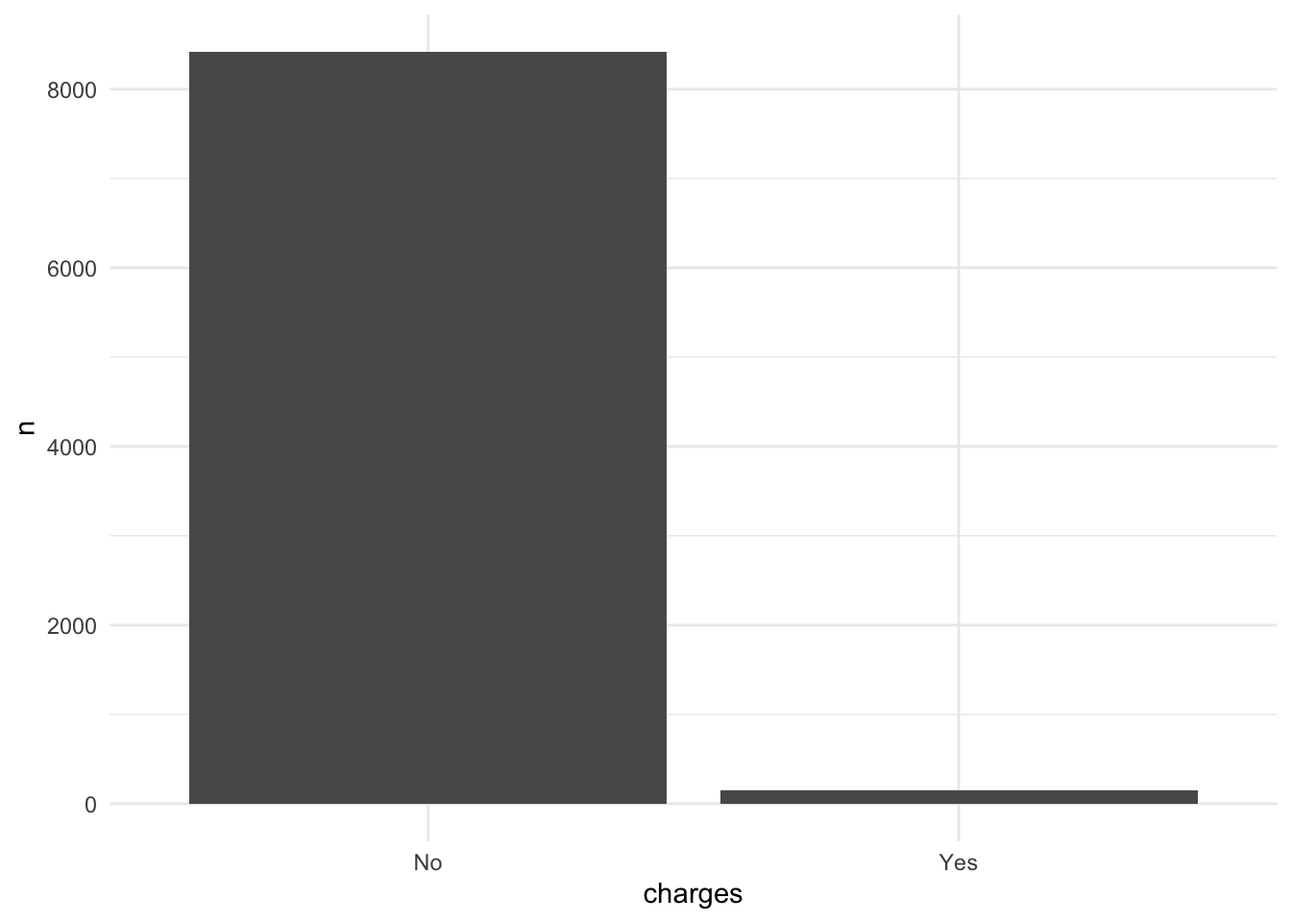
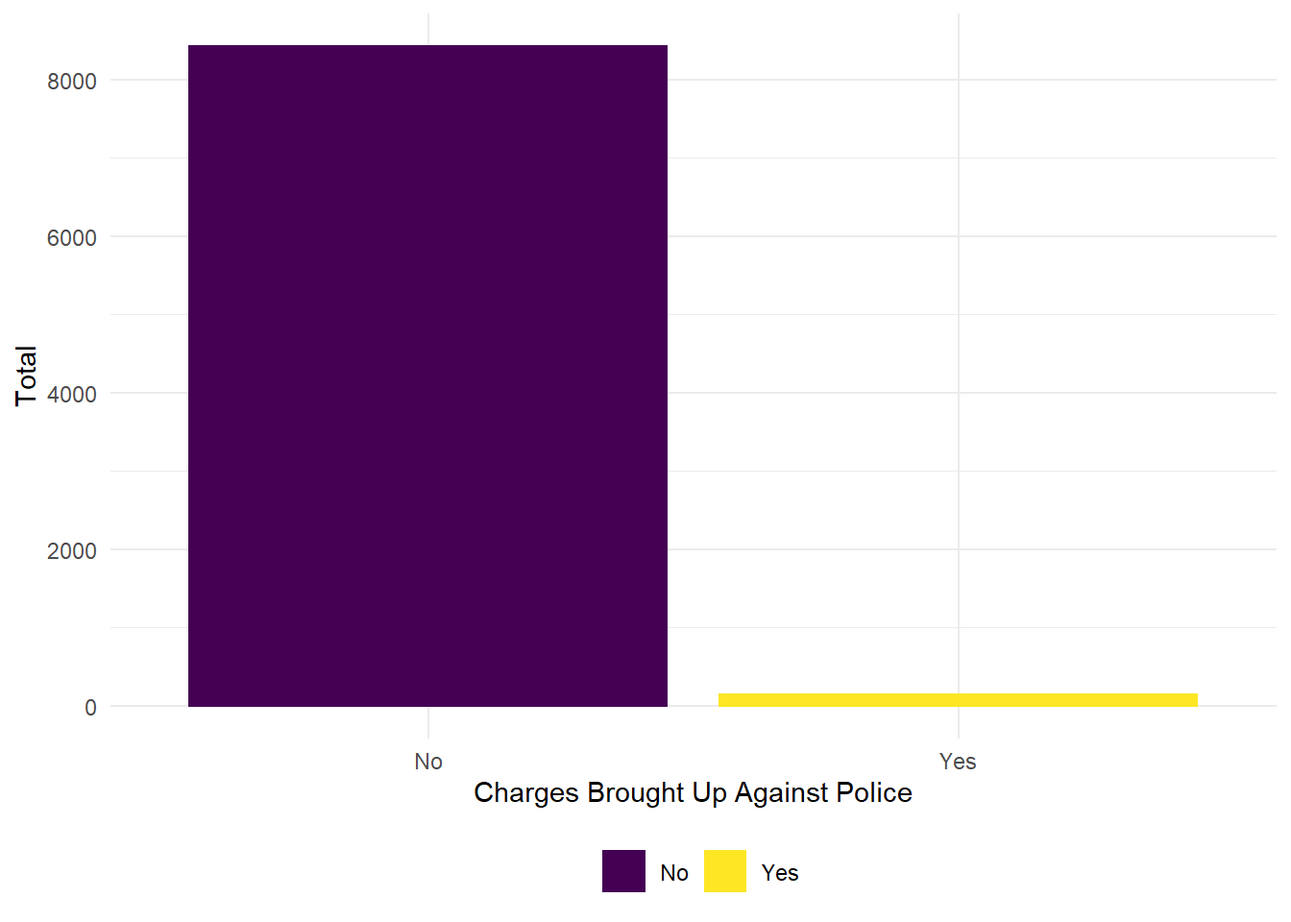
Edited MPV analysis and updated commentary

diff --git a/analysis_mpv.html b/analysis_mpv.html
@@ -437,8 +437,73 @@ div.tocify {
 </div>
 
 
-<div id="total-number-of-people-killed-by-police-by-department" class="section level3">
-<h3>Total Number of People Killed by Police by Department</h3>
+<div id="police-killings-over-time-2013-2019" class="section level3">
+<h3>Police Killings Over Time 2013-2019</h3>
+<pre class="r"><code>year_plot = 
+  mpv_df %&gt;% 
+  count(year) %&gt;% 
+  rename(total_killed = n) %&gt;% 
+  filter(year &lt; 2020) %&gt;% 
+  ggplot(aes(x = year, y = total_killed)) + geom_point() +
+  geom_smooth(method = lm, se = FALSE) +
+  scale_y_continuous(limit = c(0, 1400))
+
+year_plot</code></pre>
+<p><img src="analysis_mpv_files/figure-html/unnamed-chunk-1-1.png" width="90%" /></p>
+<p>The plot below shows the total number police killings per year from 2013 through 2019, as we can see, the total number of killings has remained relatively unchanged the past 6 years despite increased public awareness of police brutality.</p>
+<pre class="r"><code>anim_scatter =
+  mpv_df %&gt;% 
+  mutate(
+    race = str_replace_all(race, &quot;unknown race&quot;, &quot;Unknown race&quot;)
+    ) %&gt;% 
+  filter(year &lt; 2020) %&gt;% 
+  group_by(year, race) %&gt;% 
+  count() %&gt;% 
+  ggplot(aes(x = year, y = n, color = race)) +
+  geom_line() +
+  geom_point() +
+  labs(title = &quot;Number of Police Killings Over Time by Race&quot;,
+       x = &quot;Year&quot;,
+       y = &quot;Number of Police Killings&quot;) +
+  transition_reveal(year)
+
+animate(anim_scatter, renderer = gifski_renderer())</code></pre>
+<p><img src="analysis_mpv_files/figure-html/unnamed-chunk-2-1.gif" width="90%" /></p>
+<p>This plot shows the number of people that were killed from 2013 through 2019 by race. From this graph, White, Black, and Hispanic people are the victims of most police violence incidents and this holds relatively steady throughout this time period. However, these numbers must be compared with the overall US population by race in order to understand the risk of police use of force as a cause of death.</p>
+</div>
+<div id="police-killings-by-state" class="section level3">
+<h3>Police Killings by State</h3>
+<pre class="r"><code>mpv_df %&gt;% 
+  count(state) %&gt;% 
+  rename(total_killed_st = n) %&gt;% 
+  arrange(desc(total_killed_st)) %&gt;% 
+  mutate(
+    state = factor(state),
+    state = fct_reorder(state, total_killed_st)
+  ) %&gt;% 
+ plot_ly(
+      y = ~total_killed_st, x = ~state, color = ~state,
+      type = &quot;bar&quot;, colors = &quot;viridis&quot;)</code></pre>
+<div id="htmlwidget-9416d2c494a811bc506b" style="width:90%;height:480px;" class="plotly html-widget"></div>
+<script type="application/json" data-for="htmlwidget-9416d2c494a811bc506b">{"x":{"visdat":{"4b40763762c9":["function () ","plotlyVisDat"]},"cur_data":"4b40763762c9","attrs":{"4b40763762c9":{"y":{},"x":{},"color":{},"colors":"viridis","alpha_stroke":1,"sizes":[10,100],"spans":[1,20],"type":"bar"}},"layout":{"margin":{"b":40,"l":60,"t":25,"r":10},"xaxis":{"domain":[0,1],"automargin":true,"title":"state","type":"category","categoryorder":"array","categoryarray":["RI","VT","ND","NH","DE","WY","DC","SD","ME","NE","CT","HI","AK","MT","IA","ID","MA","WV","KS","MN","UT","NJ","MS","AR","OR","WI","MI","SC","VA","KY","IN","MD","NV","AL","NM","LA","NY","PA","IL","TN","MO","OH","NC","OK","WA","CO","GA","AZ","FL","TX","CA"]},"yaxis":{"domain":[0,1],"automargin":true,"title":"total_killed_st"},"hovermode":"closest","showlegend":true},"source":"A","config":{"showSendToCloud":false},"data":[{"y":[6],"x":["RI"],"type":"bar","name":"RI","marker":{"color":"rgba(68,1,84,1)","line":{"color":"rgba(68,1,84,1)"}},"textfont":{"color":"rgba(68,1,84,1)"},"error_y":{"color":"rgba(68,1,84,1)"},"error_x":{"color":"rgba(68,1,84,1)"},"xaxis":"x","yaxis":"y","frame":null},{"y":[12],"x":["VT"],"type":"bar","name":"VT","marker":{"color":"rgba(70,8,92,1)","line":{"color":"rgba(70,8,92,1)"}},"textfont":{"color":"rgba(70,8,92,1)"},"error_y":{"color":"rgba(70,8,92,1)"},"error_x":{"color":"rgba(70,8,92,1)"},"xaxis":"x","yaxis":"y","frame":null},{"y":[14],"x":["ND"],"type":"bar","name":"ND","marker":{"color":"rgba(71,16,99,1)","line":{"color":"rgba(71,16,99,1)"}},"textfont":{"color":"rgba(71,16,99,1)"},"error_y":{"color":"rgba(71,16,99,1)"},"error_x":{"color":"rgba(71,16,99,1)"},"xaxis":"x","yaxis":"y","frame":null},{"y":[18],"x":["NH"],"type":"bar","name":"NH","marker":{"color":"rgba(72,23,105,1)","line":{"color":"rgba(72,23,105,1)"}},"textfont":{"color":"rgba(72,23,105,1)"},"error_y":{"color":"rgba(72,23,105,1)"},"error_x":{"color":"rgba(72,23,105,1)"},"xaxis":"x","yaxis":"y","frame":null},{"y":[21],"x":["DE"],"type":"bar","name":"DE","marker":{"color":"rgba(72,30,111,1)","line":{"color":"rgba(72,30,111,1)"}},"textfont":{"color":"rgba(72,30,111,1)"},"error_y":{"color":"rgba(72,30,111,1)"},"error_x":{"color":"rgba(72,30,111,1)"},"xaxis":"x","yaxis":"y","frame":null},{"y":[22],"x":["WY"],"type":"bar","name":"WY","marker":{"color":"rgba(72,37,117,1)","line":{"color":"rgba(72,37,117,1)"}},"textfont":{"color":"rgba(72,37,117,1)"},"error_y":{"color":"rgba(72,37,117,1)"},"error_x":{"color":"rgba(72,37,117,1)"},"xaxis":"x","yaxis":"y","frame":null},{"y":[27],"x":["DC"],"type":"bar","name":"DC","marker":{"color":"rgba(71,43,122,1)","line":{"color":"rgba(71,43,122,1)"}},"textfont":{"color":"rgba(71,43,122,1)"},"error_y":{"color":"rgba(71,43,122,1)"},"error_x":{"color":"rgba(71,43,122,1)"},"xaxis":"x","yaxis":"y","frame":null},{"y":[27],"x":["SD"],"type":"bar","name":"SD","marker":{"color":"rgba(70,49,126,1)","line":{"color":"rgba(70,49,126,1)"}},"textfont":{"color":"rgba(70,49,126,1)"},"error_y":{"color":"rgba(70,49,126,1)"},"error_x":{"color":"rgba(70,49,126,1)"},"xaxis":"x","yaxis":"y","frame":null},{"y":[34],"x":["ME"],"type":"bar","name":"ME","marker":{"color":"rgba(69,56,130,1)","line":{"color":"rgba(69,56,130,1)"}},"textfont":{"color":"rgba(69,56,130,1)"},"error_y":{"color":"rgba(69,56,130,1)"},"error_x":{"color":"rgba(69,56,130,1)"},"xaxis":"x","yaxis":"y","frame":null},{"y":[39],"x":["NE"],"type":"bar","name":"NE","marker":{"color":"rgba(67,62,133,1)","line":{"color":"rgba(67,62,133,1)"}},"textfont":{"color":"rgba(67,62,133,1)"},"error_y":{"color":"rgba(67,62,133,1)"},"error_x":{"color":"rgba(67,62,133,1)"},"xaxis":"x","yaxis":"y","frame":null},{"y":[40],"x":["CT"],"type":"bar","name":"CT","marker":{"color":"rgba(65,68,135,1)","line":{"color":"rgba(65,68,135,1)"}},"textfont":{"color":"rgba(65,68,135,1)"},"error_y":{"color":"rgba(65,68,135,1)"},"error_x":{"color":"rgba(65,68,135,1)"},"xaxis":"x","yaxis":"y","frame":null},{"y":[40],"x":["HI"],"type":"bar","name":"HI","marker":{"color":"rgba(62,73,137,1)","line":{"color":"rgba(62,73,137,1)"}},"textfont":{"color":"rgba(62,73,137,1)"},"error_y":{"color":"rgba(62,73,137,1)"},"error_x":{"color":"rgba(62,73,137,1)"},"xaxis":"x","yaxis":"y","frame":null},{"y":[48],"x":["AK"],"type":"bar","name":"AK","marker":{"color":"rgba(60,79,138,1)","line":{"color":"rgba(60,79,138,1)"}},"textfont":{"color":"rgba(60,79,138,1)"},"error_y":{"color":"rgba(60,79,138,1)"},"error_x":{"color":"rgba(60,79,138,1)"},"xaxis":"x","yaxis":"y","frame":null},{"y":[48],"x":["MT"],"type":"bar","name":"MT","marker":{"color":"rgba(58,84,140,1)","line":{"color":"rgba(58,84,140,1)"}},"textfont":{"color":"rgba(58,84,140,1)"},"error_y":{"color":"rgba(58,84,140,1)"},"error_x":{"color":"rgba(58,84,140,1)"},"xaxis":"x","yaxis":"y","frame":null},{"y":[52],"x":["IA"],"type":"bar","name":"IA","marker":{"color":"rgba(55,90,140,1)","line":{"color":"rgba(55,90,140,1)"}},"textfont":{"color":"rgba(55,90,140,1)"},"error_y":{"color":"rgba(55,90,140,1)"},"error_x":{"color":"rgba(55,90,140,1)"},"xaxis":"x","yaxis":"y","frame":null},{"y":[53],"x":["ID"],"type":"bar","name":"ID","marker":{"color":"rgba(53,96,141,1)","line":{"color":"rgba(53,96,141,1)"}},"textfont":{"color":"rgba(53,96,141,1)"},"error_y":{"color":"rgba(53,96,141,1)"},"error_x":{"color":"rgba(53,96,141,1)"},"xaxis":"x","yaxis":"y","frame":null},{"y":[58],"x":["MA"],"type":"bar","name":"MA","marker":{"color":"rgba(50,101,142,1)","line":{"color":"rgba(50,101,142,1)"}},"textfont":{"color":"rgba(50,101,142,1)"},"error_y":{"color":"rgba(50,101,142,1)"},"error_x":{"color":"rgba(50,101,142,1)"},"xaxis":"x","yaxis":"y","frame":null},{"y":[78],"x":["WV"],"type":"bar","name":"WV","marker":{"color":"rgba(48,106,142,1)","line":{"color":"rgba(48,106,142,1)"}},"textfont":{"color":"rgba(48,106,142,1)"},"error_y":{"color":"rgba(48,106,142,1)"},"error_x":{"color":"rgba(48,106,142,1)"},"xaxis":"x","yaxis":"y","frame":null},{"y":[81],"x":["KS"],"type":"bar","name":"KS","marker":{"color":"rgba(46,111,142,1)","line":{"color":"rgba(46,111,142,1)"}},"textfont":{"color":"rgba(46,111,142,1)"},"error_y":{"color":"rgba(46,111,142,1)"},"error_x":{"color":"rgba(46,111,142,1)"},"xaxis":"x","yaxis":"y","frame":null},{"y":[93],"x":["MN"],"type":"bar","name":"MN","marker":{"color":"rgba(44,115,142,1)","line":{"color":"rgba(44,115,142,1)"}},"textfont":{"color":"rgba(44,115,142,1)"},"error_y":{"color":"rgba(44,115,142,1)"},"error_x":{"color":"rgba(44,115,142,1)"},"xaxis":"x","yaxis":"y","frame":null},{"y":[97],"x":["UT"],"type":"bar","name":"UT","marker":{"color":"rgba(42,120,142,1)","line":{"color":"rgba(42,120,142,1)"}},"textfont":{"color":"rgba(42,120,142,1)"},"error_y":{"color":"rgba(42,120,142,1)"},"error_x":{"color":"rgba(42,120,142,1)"},"xaxis":"x","yaxis":"y","frame":null},{"y":[113],"x":["NJ"],"type":"bar","name":"NJ","marker":{"color":"rgba(40,125,142,1)","line":{"color":"rgba(40,125,142,1)"}},"textfont":{"color":"rgba(40,125,142,1)"},"error_y":{"color":"rgba(40,125,142,1)"},"error_x":{"color":"rgba(40,125,142,1)"},"xaxis":"x","yaxis":"y","frame":null},{"y":[116],"x":["MS"],"type":"bar","name":"MS","marker":{"color":"rgba(38,130,142,1)","line":{"color":"rgba(38,130,142,1)"}},"textfont":{"color":"rgba(38,130,142,1)"},"error_y":{"color":"rgba(38,130,142,1)"},"error_x":{"color":"rgba(38,130,142,1)"},"xaxis":"x","yaxis":"y","frame":null},{"y":[117],"x":["AR"],"type":"bar","name":"AR","marker":{"color":"rgba(36,134,142,1)","line":{"color":"rgba(36,134,142,1)"}},"textfont":{"color":"rgba(36,134,142,1)"},"error_y":{"color":"rgba(36,134,142,1)"},"error_x":{"color":"rgba(36,134,142,1)"},"xaxis":"x","yaxis":"y","frame":null},{"y":[124],"x":["OR"],"type":"bar","name":"OR","marker":{"color":"rgba(34,139,141,1)","line":{"color":"rgba(34,139,141,1)"}},"textfont":{"color":"rgba(34,139,141,1)"},"error_y":{"color":"rgba(34,139,141,1)"},"error_x":{"color":"rgba(34,139,141,1)"},"xaxis":"x","yaxis":"y","frame":null},{"y":[127],"x":["WI"],"type":"bar","name":"WI","marker":{"color":"rgba(33,144,141,1)","line":{"color":"rgba(33,144,141,1)"}},"textfont":{"color":"rgba(33,144,141,1)"},"error_y":{"color":"rgba(33,144,141,1)"},"error_x":{"color":"rgba(33,144,141,1)"},"xaxis":"x","yaxis":"y","frame":null},{"y":[133],"x":["MI"],"type":"bar","name":"MI","marker":{"color":"rgba(31,149,139,1)","line":{"color":"rgba(31,149,139,1)"}},"textfont":{"color":"rgba(31,149,139,1)"},"error_y":{"color":"rgba(31,149,139,1)"},"error_x":{"color":"rgba(31,149,139,1)"},"xaxis":"x","yaxis":"y","frame":null},{"y":[133],"x":["SC"],"type":"bar","name":"SC","marker":{"color":"rgba(31,154,138,1)","line":{"color":"rgba(31,154,138,1)"}},"textfont":{"color":"rgba(31,154,138,1)"},"error_y":{"color":"rgba(31,154,138,1)"},"error_x":{"color":"rgba(31,154,138,1)"},"xaxis":"x","yaxis":"y","frame":null},{"y":[137],"x":["VA"],"type":"bar","name":"VA","marker":{"color":"rgba(31,159,136,1)","line":{"color":"rgba(31,159,136,1)"}},"textfont":{"color":"rgba(31,159,136,1)"},"error_y":{"color":"rgba(31,159,136,1)"},"error_x":{"color":"rgba(31,159,136,1)"},"xaxis":"x","yaxis":"y","frame":null},{"y":[139],"x":["KY"],"type":"bar","name":"KY","marker":{"color":"rgba(32,163,134,1)","line":{"color":"rgba(32,163,134,1)"}},"textfont":{"color":"rgba(32,163,134,1)"},"error_y":{"color":"rgba(32,163,134,1)"},"error_x":{"color":"rgba(32,163,134,1)"},"xaxis":"x","yaxis":"y","frame":null},{"y":[142],"x":["IN"],"type":"bar","name":"IN","marker":{"color":"rgba(34,168,132,1)","line":{"color":"rgba(34,168,132,1)"}},"textfont":{"color":"rgba(34,168,132,1)"},"error_y":{"color":"rgba(34,168,132,1)"},"error_x":{"color":"rgba(34,168,132,1)"},"xaxis":"x","yaxis":"y","frame":null},{"y":[143],"x":["MD"],"type":"bar","name":"MD","marker":{"color":"rgba(38,173,129,1)","line":{"color":"rgba(38,173,129,1)"}},"textfont":{"color":"rgba(38,173,129,1)"},"error_y":{"color":"rgba(38,173,129,1)"},"error_x":{"color":"rgba(38,173,129,1)"},"xaxis":"x","yaxis":"y","frame":null},{"y":[144],"x":["NV"],"type":"bar","name":"NV","marker":{"color":"rgba(44,177,126,1)","line":{"color":"rgba(44,177,126,1)"}},"textfont":{"color":"rgba(44,177,126,1)"},"error_y":{"color":"rgba(44,177,126,1)"},"error_x":{"color":"rgba(44,177,126,1)"},"xaxis":"x","yaxis":"y","frame":null},{"y":[154],"x":["AL"],"type":"bar","name":"AL","marker":{"color":"rgba(51,182,122,1)","line":{"color":"rgba(51,182,122,1)"}},"textfont":{"color":"rgba(51,182,122,1)"},"error_y":{"color":"rgba(51,182,122,1)"},"error_x":{"color":"rgba(51,182,122,1)"},"xaxis":"x","yaxis":"y","frame":null},{"y":[159],"x":["NM"],"type":"bar","name":"NM","marker":{"color":"rgba(58,186,118,1)","line":{"color":"rgba(58,186,118,1)"}},"textfont":{"color":"rgba(58,186,118,1)"},"error_y":{"color":"rgba(58,186,118,1)"},"error_x":{"color":"rgba(58,186,118,1)"},"xaxis":"x","yaxis":"y","frame":null},{"y":[167],"x":["LA"],"type":"bar","name":"LA","marker":{"color":"rgba(67,190,113,1)","line":{"color":"rgba(67,190,113,1)"}},"textfont":{"color":"rgba(67,190,113,1)"},"error_y":{"color":"rgba(67,190,113,1)"},"error_x":{"color":"rgba(67,190,113,1)"},"xaxis":"x","yaxis":"y","frame":null},{"y":[176],"x":["NY"],"type":"bar","name":"NY","marker":{"color":"rgba(77,195,107,1)","line":{"color":"rgba(77,195,107,1)"}},"textfont":{"color":"rgba(77,195,107,1)"},"error_y":{"color":"rgba(77,195,107,1)"},"error_x":{"color":"rgba(77,195,107,1)"},"xaxis":"x","yaxis":"y","frame":null},{"y":[186],"x":["PA"],"type":"bar","name":"PA","marker":{"color":"rgba(87,199,102,1)","line":{"color":"rgba(87,199,102,1)"}},"textfont":{"color":"rgba(87,199,102,1)"},"error_y":{"color":"rgba(87,199,102,1)"},"error_x":{"color":"rgba(87,199,102,1)"},"xaxis":"x","yaxis":"y","frame":null},{"y":[193],"x":["IL"],"type":"bar","name":"IL","marker":{"color":"rgba(98,203,95,1)","line":{"color":"rgba(98,203,95,1)"}},"textfont":{"color":"rgba(98,203,95,1)"},"error_y":{"color":"rgba(98,203,95,1)"},"error_x":{"color":"rgba(98,203,95,1)"},"xaxis":"x","yaxis":"y","frame":null},{"y":[202],"x":["TN"],"type":"bar","name":"TN","marker":{"color":"rgba(110,206,88,1)","line":{"color":"rgba(110,206,88,1)"}},"textfont":{"color":"rgba(110,206,88,1)"},"error_y":{"color":"rgba(110,206,88,1)"},"error_x":{"color":"rgba(110,206,88,1)"},"xaxis":"x","yaxis":"y","frame":null},{"y":[226],"x":["MO"],"type":"bar","name":"MO","marker":{"color":"rgba(122,209,81,1)","line":{"color":"rgba(122,209,81,1)"}},"textfont":{"color":"rgba(122,209,81,1)"},"error_y":{"color":"rgba(122,209,81,1)"},"error_x":{"color":"rgba(122,209,81,1)"},"xaxis":"x","yaxis":"y","frame":null},{"y":[230],"x":["OH"],"type":"bar","name":"OH","marker":{"color":"rgba(134,213,73,1)","line":{"color":"rgba(134,213,73,1)"}},"textfont":{"color":"rgba(134,213,73,1)"},"error_y":{"color":"rgba(134,213,73,1)"},"error_x":{"color":"rgba(134,213,73,1)"},"xaxis":"x","yaxis":"y","frame":null},{"y":[236],"x":["NC"],"type":"bar","name":"NC","marker":{"color":"rgba(147,215,65,1)","line":{"color":"rgba(147,215,65,1)"}},"textfont":{"color":"rgba(147,215,65,1)"},"error_y":{"color":"rgba(147,215,65,1)"},"error_x":{"color":"rgba(147,215,65,1)"},"xaxis":"x","yaxis":"y","frame":null},{"y":[238],"x":["OK"],"type":"bar","name":"OK","marker":{"color":"rgba(161,218,56,1)","line":{"color":"rgba(161,218,56,1)"}},"textfont":{"color":"rgba(161,218,56,1)"},"error_y":{"color":"rgba(161,218,56,1)"},"error_x":{"color":"rgba(161,218,56,1)"},"xaxis":"x","yaxis":"y","frame":null},{"y":[245],"x":["WA"],"type":"bar","name":"WA","marker":{"color":"rgba(174,220,48,1)","line":{"color":"rgba(174,220,48,1)"}},"textfont":{"color":"rgba(174,220,48,1)"},"error_y":{"color":"rgba(174,220,48,1)"},"error_x":{"color":"rgba(174,220,48,1)"},"xaxis":"x","yaxis":"y","frame":null},{"y":[267],"x":["CO"],"type":"bar","name":"CO","marker":{"color":"rgba(188,223,39,1)","line":{"color":"rgba(188,223,39,1)"}},"textfont":{"color":"rgba(188,223,39,1)"},"error_y":{"color":"rgba(188,223,39,1)"},"error_x":{"color":"rgba(188,223,39,1)"},"xaxis":"x","yaxis":"y","frame":null},{"y":[300],"x":["GA"],"type":"bar","name":"GA","marker":{"color":"rgba(201,225,31,1)","line":{"color":"rgba(201,225,31,1)"}},"textfont":{"color":"rgba(201,225,31,1)"},"error_y":{"color":"rgba(201,225,31,1)"},"error_x":{"color":"rgba(201,225,31,1)"},"xaxis":"x","yaxis":"y","frame":null},{"y":[382],"x":["AZ"],"type":"bar","name":"AZ","marker":{"color":"rgba(215,226,25,1)","line":{"color":"rgba(215,226,25,1)"}},"textfont":{"color":"rgba(215,226,25,1)"},"error_y":{"color":"rgba(215,226,25,1)"},"error_x":{"color":"rgba(215,226,25,1)"},"xaxis":"x","yaxis":"y","frame":null},{"y":[619],"x":["FL"],"type":"bar","name":"FL","marker":{"color":"rgba(228,228,25,1)","line":{"color":"rgba(228,228,25,1)"}},"textfont":{"color":"rgba(228,228,25,1)"},"error_y":{"color":"rgba(228,228,25,1)"},"error_x":{"color":"rgba(228,228,25,1)"},"xaxis":"x","yaxis":"y","frame":null},{"y":[789],"x":["TX"],"type":"bar","name":"TX","marker":{"color":"rgba(241,229,29,1)","line":{"color":"rgba(241,229,29,1)"}},"textfont":{"color":"rgba(241,229,29,1)"},"error_y":{"color":"rgba(241,229,29,1)"},"error_x":{"color":"rgba(241,229,29,1)"},"xaxis":"x","yaxis":"y","frame":null},{"y":[1322],"x":["CA"],"type":"bar","name":"CA","marker":{"color":"rgba(253,231,37,1)","line":{"color":"rgba(253,231,37,1)"}},"textfont":{"color":"rgba(253,231,37,1)"},"error_y":{"color":"rgba(253,231,37,1)"},"error_x":{"color":"rgba(253,231,37,1)"},"xaxis":"x","yaxis":"y","frame":null}],"highlight":{"on":"plotly_click","persistent":false,"dynamic":false,"selectize":false,"opacityDim":0.2,"selected":{"opacity":1},"debounce":0},"shinyEvents":["plotly_hover","plotly_click","plotly_selected","plotly_relayout","plotly_brushed","plotly_brushing","plotly_clickannotation","plotly_doubleclick","plotly_deselect","plotly_afterplot","plotly_sunburstclick"],"base_url":"https://plot.ly"},"evals":[],"jsHooks":[]}</script>
+<pre class="r"><code>mpv_df %&gt;% 
+  count(state) %&gt;% 
+  rename(total_killed_st = n) %&gt;% 
+  arrange(desc(total_killed_st)) %&gt;% 
+  filter(total_killed_st &gt;= 230) %&gt;% 
+  mutate(
+    state = factor(state),
+    state = fct_reorder(state, total_killed_st)
+  ) %&gt;% 
+ plot_ly(
+      y = ~total_killed_st, x = ~state, color = ~state,
+      type = &quot;bar&quot;, colors = &quot;viridis&quot;)</code></pre>
+<div id="htmlwidget-6e867b0a3213a66d5e59" style="width:90%;height:480px;" class="plotly html-widget"></div>
+<script type="application/json" data-for="htmlwidget-6e867b0a3213a66d5e59">{"x":{"visdat":{"4b4064f466ed":["function () ","plotlyVisDat"]},"cur_data":"4b4064f466ed","attrs":{"4b4064f466ed":{"y":{},"x":{},"color":{},"colors":"viridis","alpha_stroke":1,"sizes":[10,100],"spans":[1,20],"type":"bar"}},"layout":{"margin":{"b":40,"l":60,"t":25,"r":10},"xaxis":{"domain":[0,1],"automargin":true,"title":"state","type":"category","categoryorder":"array","categoryarray":["OH","NC","OK","WA","CO","GA","AZ","FL","TX","CA"]},"yaxis":{"domain":[0,1],"automargin":true,"title":"total_killed_st"},"hovermode":"closest","showlegend":true},"source":"A","config":{"showSendToCloud":false},"data":[{"y":[230],"x":["OH"],"type":"bar","name":"OH","marker":{"color":"rgba(68,1,84,1)","line":{"color":"rgba(68,1,84,1)"}},"textfont":{"color":"rgba(68,1,84,1)"},"error_y":{"color":"rgba(68,1,84,1)"},"error_x":{"color":"rgba(68,1,84,1)"},"xaxis":"x","yaxis":"y","frame":null},{"y":[236],"x":["NC"],"type":"bar","name":"NC","marker":{"color":"rgba(72,40,120,1)","line":{"color":"rgba(72,40,120,1)"}},"textfont":{"color":"rgba(72,40,120,1)"},"error_y":{"color":"rgba(72,40,120,1)"},"error_x":{"color":"rgba(72,40,120,1)"},"xaxis":"x","yaxis":"y","frame":null},{"y":[238],"x":["OK"],"type":"bar","name":"OK","marker":{"color":"rgba(62,74,137,1)","line":{"color":"rgba(62,74,137,1)"}},"textfont":{"color":"rgba(62,74,137,1)"},"error_y":{"color":"rgba(62,74,137,1)"},"error_x":{"color":"rgba(62,74,137,1)"},"xaxis":"x","yaxis":"y","frame":null},{"y":[245],"x":["WA"],"type":"bar","name":"WA","marker":{"color":"rgba(49,104,142,1)","line":{"color":"rgba(49,104,142,1)"}},"textfont":{"color":"rgba(49,104,142,1)"},"error_y":{"color":"rgba(49,104,142,1)"},"error_x":{"color":"rgba(49,104,142,1)"},"xaxis":"x","yaxis":"y","frame":null},{"y":[267],"x":["CO"],"type":"bar","name":"CO","marker":{"color":"rgba(38,130,142,1)","line":{"color":"rgba(38,130,142,1)"}},"textfont":{"color":"rgba(38,130,142,1)"},"error_y":{"color":"rgba(38,130,142,1)"},"error_x":{"color":"rgba(38,130,142,1)"},"xaxis":"x","yaxis":"y","frame":null},{"y":[300],"x":["GA"],"type":"bar","name":"GA","marker":{"color":"rgba(31,158,137,1)","line":{"color":"rgba(31,158,137,1)"}},"textfont":{"color":"rgba(31,158,137,1)"},"error_y":{"color":"rgba(31,158,137,1)"},"error_x":{"color":"rgba(31,158,137,1)"},"xaxis":"x","yaxis":"y","frame":null},{"y":[382],"x":["AZ"],"type":"bar","name":"AZ","marker":{"color":"rgba(53,183,121,1)","line":{"color":"rgba(53,183,121,1)"}},"textfont":{"color":"rgba(53,183,121,1)"},"error_y":{"color":"rgba(53,183,121,1)"},"error_x":{"color":"rgba(53,183,121,1)"},"xaxis":"x","yaxis":"y","frame":null},{"y":[619],"x":["FL"],"type":"bar","name":"FL","marker":{"color":"rgba(109,205,89,1)","line":{"color":"rgba(109,205,89,1)"}},"textfont":{"color":"rgba(109,205,89,1)"},"error_y":{"color":"rgba(109,205,89,1)"},"error_x":{"color":"rgba(109,205,89,1)"},"xaxis":"x","yaxis":"y","frame":null},{"y":[789],"x":["TX"],"type":"bar","name":"TX","marker":{"color":"rgba(180,222,44,1)","line":{"color":"rgba(180,222,44,1)"}},"textfont":{"color":"rgba(180,222,44,1)"},"error_y":{"color":"rgba(180,222,44,1)"},"error_x":{"color":"rgba(180,222,44,1)"},"xaxis":"x","yaxis":"y","frame":null},{"y":[1322],"x":["CA"],"type":"bar","name":"CA","marker":{"color":"rgba(253,231,37,1)","line":{"color":"rgba(253,231,37,1)"}},"textfont":{"color":"rgba(253,231,37,1)"},"error_y":{"color":"rgba(253,231,37,1)"},"error_x":{"color":"rgba(253,231,37,1)"},"xaxis":"x","yaxis":"y","frame":null}],"highlight":{"on":"plotly_click","persistent":false,"dynamic":false,"selectize":false,"opacityDim":0.2,"selected":{"opacity":1},"debounce":0},"shinyEvents":["plotly_hover","plotly_click","plotly_selected","plotly_relayout","plotly_brushed","plotly_brushing","plotly_clickannotation","plotly_doubleclick","plotly_deselect","plotly_afterplot","plotly_sunburstclick"],"base_url":"https://plot.ly"},"evals":[],"jsHooks":[]}</script>
+<p>These two graphs show us the total number people killed per state from 2013-2020. The first graph contains numbers for all 50 states and the second graph contains the top 10 states with the highest number of police killings. At the top is California which is almost double the next highest state, Texas.</p>
+</div>
+<div id="police-killings-by-department" class="section level3">
+<h3>Police Killings by Department</h3>
 <pre class="r"><code>mpv_df %&gt;% 
   count(police_dept) %&gt;% 
   rename(total_killed_pd = n) %&gt;% 
@@ -450,51 +515,8 @@ div.tocify {
    plot_ly(
       y = ~total_killed_pd, x = ~police_dept, color = ~police_dept,
       type = &quot;bar&quot;, colors = &quot;viridis&quot;)</code></pre>
-<p><div id="htmlwidget-ac7da8ae244a1191c927" style="width:90%;height:480px;" class="plotly html-widget"></div>
-<script type="application/json" data-for="htmlwidget-ac7da8ae244a1191c927">{"x":{"visdat":{"239452ca7e9c":["function () ","plotlyVisDat"]},"cur_data":"239452ca7e9c","attrs":{"239452ca7e9c":{"y":{},"x":{},"color":{},"colors":"viridis","alpha_stroke":1,"sizes":[10,100],"spans":[1,20],"type":"bar"}},"layout":{"margin":{"b":40,"l":60,"t":25,"r":10},"xaxis":{"domain":[0,1],"automargin":true,"title":"police_dept","type":"category","categoryorder":"array","categoryarray":["Miami-Dade Police Department","Oklahoma City Police Department","San Antonio Police Department","U.S. Marshals Service","Las Vegas Metropolitan Police Department","Houston Police Department","New York Police Department","Chicago Police Department","Los Angeles County Sheriff's Department","Phoenix Police Department","Los Angeles Police Department"]},"yaxis":{"domain":[0,1],"automargin":true,"title":"total_killed_pd"},"hovermode":"closest","showlegend":true},"source":"A","config":{"showSendToCloud":false},"data":[{"y":[49],"x":["Miami-Dade Police Department"],"type":"bar","name":"Miami-Dade Police Department","marker":{"color":"rgba(68,1,84,1)","line":{"color":"rgba(68,1,84,1)"}},"textfont":{"color":"rgba(68,1,84,1)"},"error_y":{"color":"rgba(68,1,84,1)"},"error_x":{"color":"rgba(68,1,84,1)"},"xaxis":"x","yaxis":"y","frame":null},{"y":[49],"x":["Oklahoma City Police Department"],"type":"bar","name":"Oklahoma City Police Department","marker":{"color":"rgba(72,37,117,1)","line":{"color":"rgba(72,37,117,1)"}},"textfont":{"color":"rgba(72,37,117,1)"},"error_y":{"color":"rgba(72,37,117,1)"},"error_x":{"color":"rgba(72,37,117,1)"},"xaxis":"x","yaxis":"y","frame":null},{"y":[54],"x":["San Antonio Police Department"],"type":"bar","name":"San Antonio Police Department","marker":{"color":"rgba(65,68,135,1)","line":{"color":"rgba(65,68,135,1)"}},"textfont":{"color":"rgba(65,68,135,1)"},"error_y":{"color":"rgba(65,68,135,1)"},"error_x":{"color":"rgba(65,68,135,1)"},"xaxis":"x","yaxis":"y","frame":null},{"y":[65],"x":["U.S. Marshals Service"],"type":"bar","name":"U.S. Marshals Service","marker":{"color":"rgba(53,96,141,1)","line":{"color":"rgba(53,96,141,1)"}},"textfont":{"color":"rgba(53,96,141,1)"},"error_y":{"color":"rgba(53,96,141,1)"},"error_x":{"color":"rgba(53,96,141,1)"},"xaxis":"x","yaxis":"y","frame":null},{"y":[68],"x":["Las Vegas Metropolitan Police Department"],"type":"bar","name":"Las Vegas Metropolitan Police Department","marker":{"color":"rgba(42,120,142,1)","line":{"color":"rgba(42,120,142,1)"}},"textfont":{"color":"rgba(42,120,142,1)"},"error_y":{"color":"rgba(42,120,142,1)"},"error_x":{"color":"rgba(42,120,142,1)"},"xaxis":"x","yaxis":"y","frame":null},{"y":[71],"x":["Houston Police Department"],"type":"bar","name":"Houston Police Department","marker":{"color":"rgba(33,144,141,1)","line":{"color":"rgba(33,144,141,1)"}},"textfont":{"color":"rgba(33,144,141,1)"},"error_y":{"color":"rgba(33,144,141,1)"},"error_x":{"color":"rgba(33,144,141,1)"},"xaxis":"x","yaxis":"y","frame":null},{"y":[79],"x":["New York Police Department"],"type":"bar","name":"New York Police Department","marker":{"color":"rgba(34,168,132,1)","line":{"color":"rgba(34,168,132,1)"}},"textfont":{"color":"rgba(34,168,132,1)"},"error_y":{"color":"rgba(34,168,132,1)"},"error_x":{"color":"rgba(34,168,132,1)"},"xaxis":"x","yaxis":"y","frame":null},{"y":[82],"x":["Chicago Police Department"],"type":"bar","name":"Chicago Police Department","marker":{"color":"rgba(67,190,113,1)","line":{"color":"rgba(67,190,113,1)"}},"textfont":{"color":"rgba(67,190,113,1)"},"error_y":{"color":"rgba(67,190,113,1)"},"error_x":{"color":"rgba(67,190,113,1)"},"xaxis":"x","yaxis":"y","frame":null},{"y":[102],"x":["Los Angeles County Sheriff's Department"],"type":"bar","name":"Los Angeles County Sheriff's Department","marker":{"color":"rgba(122,209,81,1)","line":{"color":"rgba(122,209,81,1)"}},"textfont":{"color":"rgba(122,209,81,1)"},"error_y":{"color":"rgba(122,209,81,1)"},"error_x":{"color":"rgba(122,209,81,1)"},"xaxis":"x","yaxis":"y","frame":null},{"y":[118],"x":["Phoenix Police Department"],"type":"bar","name":"Phoenix Police Department","marker":{"color":"rgba(188,223,39,1)","line":{"color":"rgba(188,223,39,1)"}},"textfont":{"color":"rgba(188,223,39,1)"},"error_y":{"color":"rgba(188,223,39,1)"},"error_x":{"color":"rgba(188,223,39,1)"},"xaxis":"x","yaxis":"y","frame":null},{"y":[133],"x":["Los Angeles Police Department"],"type":"bar","name":"Los Angeles Police Department","marker":{"color":"rgba(253,231,37,1)","line":{"color":"rgba(253,231,37,1)"}},"textfont":{"color":"rgba(253,231,37,1)"},"error_y":{"color":"rgba(253,231,37,1)"},"error_x":{"color":"rgba(253,231,37,1)"},"xaxis":"x","yaxis":"y","frame":null}],"highlight":{"on":"plotly_click","persistent":false,"dynamic":false,"selectize":false,"opacityDim":0.2,"selected":{"opacity":1},"debounce":0},"shinyEvents":["plotly_hover","plotly_click","plotly_selected","plotly_relayout","plotly_brushed","plotly_brushing","plotly_clickannotation","plotly_doubleclick","plotly_deselect","plotly_afterplot","plotly_sunburstclick"],"base_url":"https://plot.ly"},"evals":[],"jsHooks":[]}</script> This plot depicts the total number of people killed from 2013 through 2020 broken down by police department; only departments with a count higher than 49 are included to show the highest offenders. Based on this graph, we can see that Los Angeles has the highest count, especially once the LA County and LA city departments are combined together for a total that is double the city with the second highest count.</p>
-<p>The plots below visualize police killings by state. One includes all states with data, the other includes the top 10 states.</p>
-<pre class="r"><code>state_plot = 
-  mpv_df %&gt;% 
-  count(state) %&gt;% 
-  rename(total_killed_st = n) %&gt;% 
-  arrange(desc(total_killed_st)) %&gt;% 
-  mutate(
-    state = factor(state),
-    state = fct_reorder(state, total_killed_st)
-  ) %&gt;% 
-  ggplot(aes(x = state, y = total_killed_st, fill = state)) +
-  geom_col() +
-  theme(axis.text.x = element_text(angle = 90, vjust = 0.5, hjust = 1))
-
-state_subset_plot = 
-  mpv_df %&gt;% 
-  count(state) %&gt;% 
-  rename(total_killed_st = n) %&gt;% 
-  arrange(desc(total_killed_st)) %&gt;% 
-  filter(total_killed_st &gt;= 230) %&gt;% 
-  mutate(
-    state = factor(state),
-    state = fct_reorder(state, total_killed_st)
-  ) %&gt;% 
-  ggplot(aes(x = state, y = total_killed_st, fill = state)) +
-  geom_col() +
-  theme(axis.text.x = element_text(angle = 90, vjust = 0.5, hjust = 1))
-
-state_plot + state_subset_plot</code></pre>
-<p><img src="analysis_mpv_files/figure-html/unnamed-chunk-2-1.png" width="90%" /></p>
-<p>The plot below shows police killings over time until 2019 (I excluded 2020, because otherwise it looks like 2020 has a drop in police killings).</p>
-<pre class="r"><code>year_plot = 
-  mpv_df %&gt;% 
-  count(year) %&gt;% 
-  rename(total_killed = n) %&gt;% 
-  filter(year &lt; 2020) %&gt;% 
-  ggplot(aes(x = year, y = total_killed)) + geom_point() +
-  geom_smooth(method = lm, se = FALSE) +
-  scale_y_continuous(limit = c(0, 1400))
-
-year_plot</code></pre>
-<pre><code>## `geom_smooth()` using formula &#39;y ~ x&#39;</code></pre>
-<p><img src="analysis_mpv_files/figure-html/unnamed-chunk-3-1.png" width="90%" /></p>
+<p><div id="htmlwidget-0d5b9a514fc2ef75dbac" style="width:90%;height:480px;" class="plotly html-widget"></div>
+<script type="application/json" data-for="htmlwidget-0d5b9a514fc2ef75dbac">{"x":{"visdat":{"4b40153c601d":["function () ","plotlyVisDat"]},"cur_data":"4b40153c601d","attrs":{"4b40153c601d":{"y":{},"x":{},"color":{},"colors":"viridis","alpha_stroke":1,"sizes":[10,100],"spans":[1,20],"type":"bar"}},"layout":{"margin":{"b":40,"l":60,"t":25,"r":10},"xaxis":{"domain":[0,1],"automargin":true,"title":"police_dept","type":"category","categoryorder":"array","categoryarray":["Miami-Dade Police Department","Oklahoma City Police Department","San Antonio Police Department","U.S. Marshals Service","Las Vegas Metropolitan Police Department","Houston Police Department","New York Police Department","Chicago Police Department","Los Angeles County Sheriff's Department","Phoenix Police Department","Los Angeles Police Department"]},"yaxis":{"domain":[0,1],"automargin":true,"title":"total_killed_pd"},"hovermode":"closest","showlegend":true},"source":"A","config":{"showSendToCloud":false},"data":[{"y":[49],"x":["Miami-Dade Police Department"],"type":"bar","name":"Miami-Dade Police Department","marker":{"color":"rgba(68,1,84,1)","line":{"color":"rgba(68,1,84,1)"}},"textfont":{"color":"rgba(68,1,84,1)"},"error_y":{"color":"rgba(68,1,84,1)"},"error_x":{"color":"rgba(68,1,84,1)"},"xaxis":"x","yaxis":"y","frame":null},{"y":[49],"x":["Oklahoma City Police Department"],"type":"bar","name":"Oklahoma City Police Department","marker":{"color":"rgba(72,37,117,1)","line":{"color":"rgba(72,37,117,1)"}},"textfont":{"color":"rgba(72,37,117,1)"},"error_y":{"color":"rgba(72,37,117,1)"},"error_x":{"color":"rgba(72,37,117,1)"},"xaxis":"x","yaxis":"y","frame":null},{"y":[54],"x":["San Antonio Police Department"],"type":"bar","name":"San Antonio Police Department","marker":{"color":"rgba(65,68,135,1)","line":{"color":"rgba(65,68,135,1)"}},"textfont":{"color":"rgba(65,68,135,1)"},"error_y":{"color":"rgba(65,68,135,1)"},"error_x":{"color":"rgba(65,68,135,1)"},"xaxis":"x","yaxis":"y","frame":null},{"y":[65],"x":["U.S. Marshals Service"],"type":"bar","name":"U.S. Marshals Service","marker":{"color":"rgba(53,96,141,1)","line":{"color":"rgba(53,96,141,1)"}},"textfont":{"color":"rgba(53,96,141,1)"},"error_y":{"color":"rgba(53,96,141,1)"},"error_x":{"color":"rgba(53,96,141,1)"},"xaxis":"x","yaxis":"y","frame":null},{"y":[68],"x":["Las Vegas Metropolitan Police Department"],"type":"bar","name":"Las Vegas Metropolitan Police Department","marker":{"color":"rgba(42,120,142,1)","line":{"color":"rgba(42,120,142,1)"}},"textfont":{"color":"rgba(42,120,142,1)"},"error_y":{"color":"rgba(42,120,142,1)"},"error_x":{"color":"rgba(42,120,142,1)"},"xaxis":"x","yaxis":"y","frame":null},{"y":[71],"x":["Houston Police Department"],"type":"bar","name":"Houston Police Department","marker":{"color":"rgba(33,144,141,1)","line":{"color":"rgba(33,144,141,1)"}},"textfont":{"color":"rgba(33,144,141,1)"},"error_y":{"color":"rgba(33,144,141,1)"},"error_x":{"color":"rgba(33,144,141,1)"},"xaxis":"x","yaxis":"y","frame":null},{"y":[79],"x":["New York Police Department"],"type":"bar","name":"New York Police Department","marker":{"color":"rgba(34,168,132,1)","line":{"color":"rgba(34,168,132,1)"}},"textfont":{"color":"rgba(34,168,132,1)"},"error_y":{"color":"rgba(34,168,132,1)"},"error_x":{"color":"rgba(34,168,132,1)"},"xaxis":"x","yaxis":"y","frame":null},{"y":[82],"x":["Chicago Police Department"],"type":"bar","name":"Chicago Police Department","marker":{"color":"rgba(67,190,113,1)","line":{"color":"rgba(67,190,113,1)"}},"textfont":{"color":"rgba(67,190,113,1)"},"error_y":{"color":"rgba(67,190,113,1)"},"error_x":{"color":"rgba(67,190,113,1)"},"xaxis":"x","yaxis":"y","frame":null},{"y":[102],"x":["Los Angeles County Sheriff's Department"],"type":"bar","name":"Los Angeles County Sheriff's Department","marker":{"color":"rgba(122,209,81,1)","line":{"color":"rgba(122,209,81,1)"}},"textfont":{"color":"rgba(122,209,81,1)"},"error_y":{"color":"rgba(122,209,81,1)"},"error_x":{"color":"rgba(122,209,81,1)"},"xaxis":"x","yaxis":"y","frame":null},{"y":[118],"x":["Phoenix Police Department"],"type":"bar","name":"Phoenix Police Department","marker":{"color":"rgba(188,223,39,1)","line":{"color":"rgba(188,223,39,1)"}},"textfont":{"color":"rgba(188,223,39,1)"},"error_y":{"color":"rgba(188,223,39,1)"},"error_x":{"color":"rgba(188,223,39,1)"},"xaxis":"x","yaxis":"y","frame":null},{"y":[133],"x":["Los Angeles Police Department"],"type":"bar","name":"Los Angeles Police Department","marker":{"color":"rgba(253,231,37,1)","line":{"color":"rgba(253,231,37,1)"}},"textfont":{"color":"rgba(253,231,37,1)"},"error_y":{"color":"rgba(253,231,37,1)"},"error_x":{"color":"rgba(253,231,37,1)"},"xaxis":"x","yaxis":"y","frame":null}],"highlight":{"on":"plotly_click","persistent":false,"dynamic":false,"selectize":false,"opacityDim":0.2,"selected":{"opacity":1},"debounce":0},"shinyEvents":["plotly_hover","plotly_click","plotly_selected","plotly_relayout","plotly_brushed","plotly_brushing","plotly_clickannotation","plotly_doubleclick","plotly_deselect","plotly_afterplot","plotly_sunburstclick"],"base_url":"https://plot.ly"},"evals":[],"jsHooks":[]}</script> This plot depicts the total number of people killed from 2013 through 2020 broken down by police department; only departments with a count higher than 49 are included to show the highest offenders. Based on this graph, we can see that Los Angeles has the highest count, especially once the LA County and LA city departments are combined together for a total that is double the city with the second highest count.</p>
 </div>
 <div id="breakdown-of-charges-laid-against-police" class="section level3">
 <h3>Breakdown of charges laid against police</h3>
@@ -515,23 +537,7 @@ year_plot</code></pre>
   theme(legend.title = element_blank()) 
 
 mpv_case</code></pre>
-<p><img src="analysis_mpv_files/figure-html/unnamed-chunk-4-1.png" width="90%" /> The above plot shows the breakdown of whether charges were pressed police after each case. In total, 8420charges were brought up against police, compared to the 69 cases where police were not charged.</p>
-<p>Scatter plot showing killings over time separated by race</p>
-<pre class="r"><code>anim_scatter =
-  mpv_df %&gt;% 
-  group_by(year, race) %&gt;% 
-  count() %&gt;% 
-  ggplot(aes(x = year, y = n, color = race)) +
-  geom_line() +
-  geom_point() +
-  labs(title = &quot;Number of Police Killings Over Time by Race&quot;,
-       x = &quot;Year&quot;,
-       y = &quot;Number of Police Killings&quot;) +
-  transition_reveal(year)
-
-animate(anim_scatter, renderer = gifski_renderer())</code></pre>
-<p><img src="analysis_mpv_files/figure-html/unnamed-chunk-5-1.gif" width="90%" /></p>
-<pre class="r"><code># might be worth excluding 2020 because of incomplete data, it makes it look like the shootings are trending down</code></pre>
+<p><img src="analysis_mpv_files/figure-html/unnamed-chunk-5-1.png" width="90%" /> The above plot shows the breakdown of whether charges were pressed police after each case. In total,69 charges were brought up against police, compared to the 8420 cases where police were not charged.</p>
 </div>
 
 
